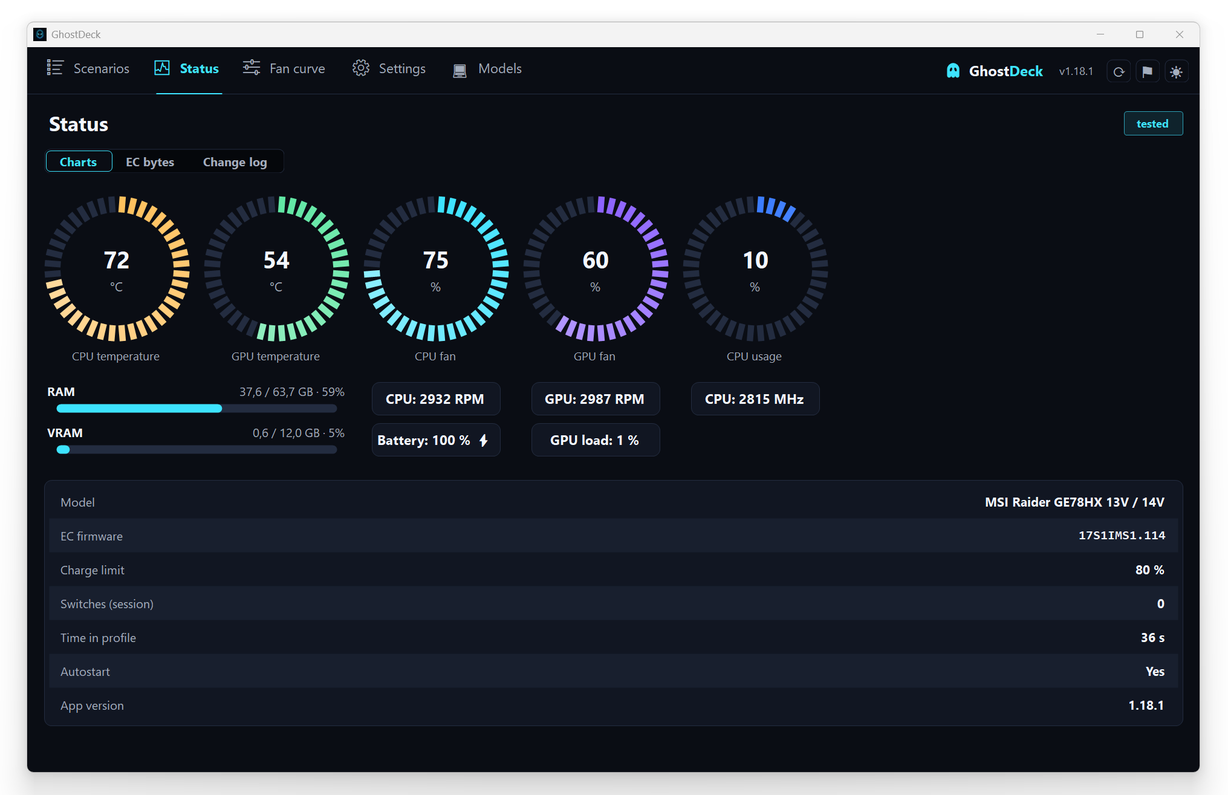
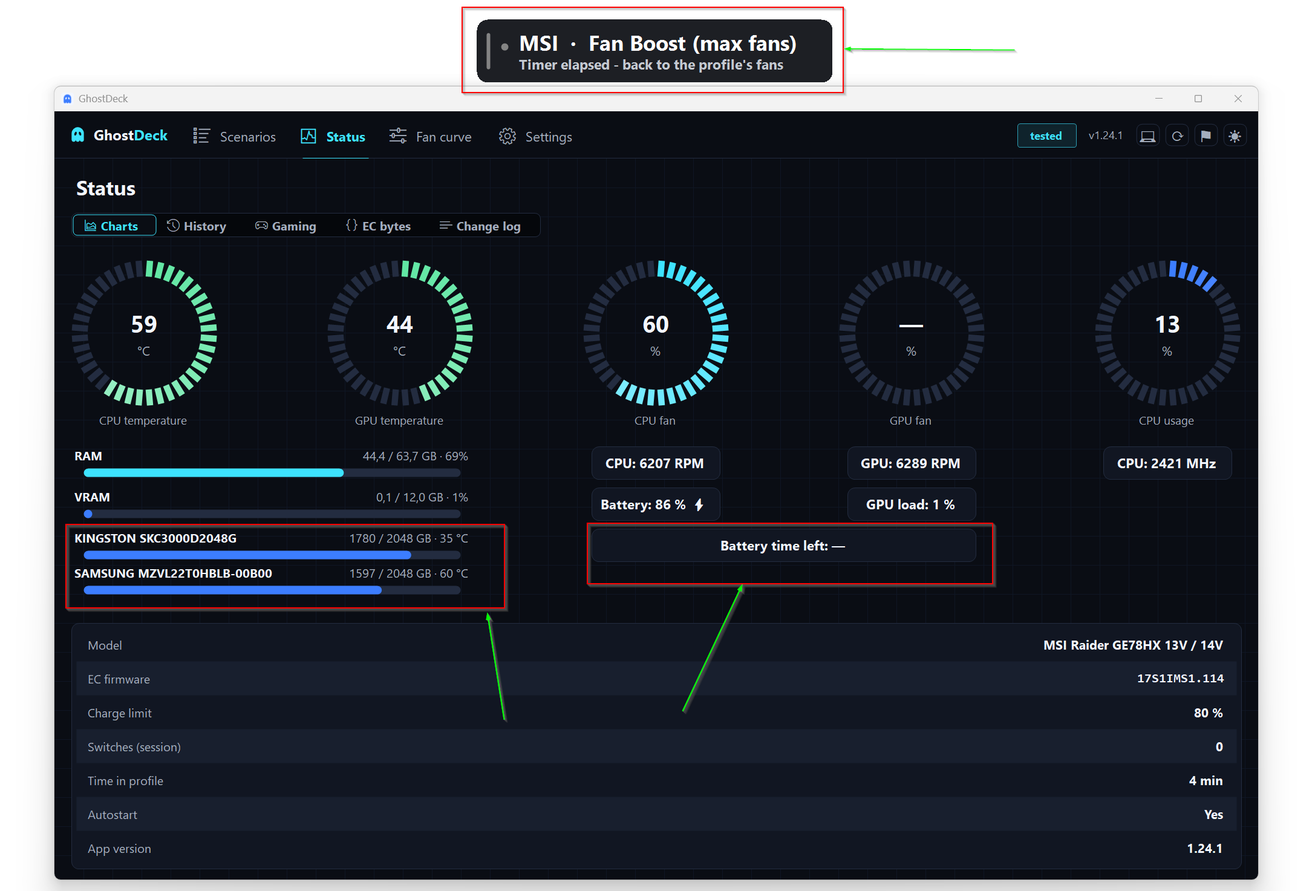
Release prep for v1.24.1: changelog, docs, screenshots
- CHANGELOG: date 1.24.1 (boost timer #51, telemetry mode #48, curve restore #49,
  battery health/time, storage panel, diagnostics, model promotions #45 #47 #50 #52-#54).
- README: features, comparison table, 15 tested models, gallery rows for Settings Power /
  System, refreshed Status shot.
- TECHNICAL: SS38 storage temperature ladder, SS39 telemetry-only mode, SS40 boost timer.

Changed region(s): [[0.0, 0.0, 0.9926, 0.9977], [0.8375, 0.3118, 0.8996, 0.4365], [0.7134, 0.3118, 0.7445, 0.4365]]

diff --git a/docs/TECHNICAL.md b/docs/TECHNICAL.md
@@ -934,6 +934,22 @@ The last deliberate profile also persists (`AppSettings.LastProfile`, written on
 are skipped when the AC/battery auto-switch is enabled (it owns the choice) and both respect
 `AutoWritable` (firmware guard).
 
+**Fan-curve restore (v1.24.x, discussion #49).** The EC cold-boots into its factory fan mode,
+so a custom curve never survives a restart; the per-profile preset only came back if something
+called `SetProfile` at startup (auto-switch on, or profile restore with a *different* boot
+profile). Now the app remembers the curve that is LIVE in the EC - `AppSettings.CurveActive` +
+the four point arrays + the preset name for the log ("" = a manual curve from the editor) -
+recorded by every apply path (`ApplyAssignedCurve`, tray preset quick-switch, editor
+enable/re-apply) and cleared by every "back to profile fans" path (tray "Fan: profile", editor
+revert, panic reset). `AppSettings.RestoreCurveOnResume` (Settings → Power, default OFF) makes
+`TrayContext.TryRestoreCurve` re-write those tables + `SetFanMode(advanced)` at startup and
+6 s after resume, always AFTER the profile logic (so a recipe cannot overwrite the fan byte),
+gated by `AutoWritable`, skipped in Silent (shared `0xD4` byte) and validated against
+`FanCurveSpec.Points`/`SingleFan`. The profile restore itself also lost its
+"already on that profile" short-circuit: a cold boot loses fan state even when the EC wakes in
+the same profile, so restore now always re-asserts the full recipe (identical bytes are
+harmless).
+
 ## 31. Single-curve boards (v1.23.1, issue #22)
 
 Some budget boards expose only ONE controllable fan curve: MSI Center shows a single slider
@@ -1148,3 +1164,138 @@ Known equivalences and acks encoded in the script:
 
 Stage 2 (not built): generating a ready PR instead of an issue - deliberately deferred until
 the report has earned trust, since these maps drive EC writes.
+
+## 37. One-click diagnostic package (v1.24.x, roadmap #30)
+
+Settings → System → Diagnostics → "Save diagnostic package…" builds one zip
+(`SettingsPage.SaveDiagnostics`, `System.IO.Compression`):
+
+- `report.txt` - app version, EC firmware, detected model + tier, Windows version;
+- `ec-dump.txt` - a fresh read-only `Ec.DumpAll()` in the wizard's hex format, or - when the
+  read fails - the `AppLifecycle.DescribeEcFailure` text plus the raw exception message (that
+  failure text is itself the diagnostic, see issue #48);
+- copies of `settings.json`, `changelog.json` and `errors.log` (only when present) from
+  `%AppData%\GhostDeck`.
+
+None of these files carry personal data (settings hold colors/hotkeys/toggles/window
+geometry). Half of issue triage used to be requesting exactly these pieces one by one.
+
+## 38. Battery health, battery-time estimate, SSD temperature (v1.24.x, roadmap #14/#15/#17)
+
+All three stay inside the project's "no kernel driver" rule - plain WMI, admin only:
+
+- **Battery health** (`Core/BatteryHealth.cs`, card in Settings → Power): `root\wmi`
+  `BatteryStaticData.DesignedCapacity`, `BatteryFullChargedCapacity.FullChargedCapacity`,
+  `BatteryCycleCount.CycleCount` (all mWh / count; 0 = firmware does not report it - common
+  for CycleCount). Wear % = 100 - full*100/design, clamped. Read once at card build; the
+  values change too slowly to poll.
+- **Estimated battery time** (`Perf.BatteryMinutesLeft`): `Win32_Battery.EstimatedRunTime`
+  (minutes), only queried while discharging; sentinel/garbage values (charging returns huge
+  numbers) are filtered by a 0 < m < 6000 window; cached 15 s. Shown in the tray tooltip
+  (`TrayContext.UpdateTrayText`, refreshed by the 3 s poll, defensively capped at the 127-char
+  NotifyIcon limit), on Status → Charts row 3, and as the `BatteryTime` overlay metric.
+- **Storage panel** (`Perf.Disks`, cached 5 s): one entry per physical disk, ordered by the
+  Windows disk number. Names and sizes come from `MSFT_PhysicalDisk`
+  (`root\microsoft\windows\storage`); used/total volume space is summed per disk via the
+  `Win32_DiskPartition` → `Win32_LogicalDiskToPartition` association in `root\cimv2` (keyed by
+  `DiskIndex`, which equals `MSFT_PhysicalDisk.DeviceId`). Status → Charts row 3 shows each
+  disk with a usage bar (amber ≥90 %) and its temperature (amber ≥70 °C); the overlay's
+  `SsdTemp` metric shows both disks ("37/50°", like the Fans metric) via `Perf.DiskTemps2()`.
+
+  **The temperature ladder.** No single Windows API covers every drive/driver combination, so
+  each disk's temperature is resolved by trying four sources in order and stopping at the
+  first that answers (a value outside 1-119 °C counts as "no answer" and shows as "—"):
+
+  1. **Bulk WMI**: one `SELECT DeviceId, Temperature FROM MSFT_StorageReliabilityCounter` for
+     all disks at once - the cheapest path, but the class often cannot be enumerated directly
+     and returns nothing (PowerShell's `Get-StorageReliabilityCounter` has the same
+     limitation: it requires piping a disk in).
+  2. **WMI association**: `ASSOCIATORS OF {MSFT_PhysicalDisk.ObjectId="…"} WHERE ResultClass =
+     MSFT_StorageReliabilityCounter`, per disk (the ObjectId's backslashes and quotes must be
+     escaped in the object path).
+  3. **Storage temperature property**: `DeviceIoControl(IOCTL_STORAGE_QUERY_PROPERTY)` on
+     `\.\PhysicalDriveN` with `StorageDeviceTemperatureProperty` (= 52). The response is a
+     `STORAGE_TEMPERATURE_DATA_DESCRIPTOR`: 24-byte header (`InfoCount` at offset 12), then
+     16-byte `STORAGE_TEMPERATURE_INFO` entries with the signed Celsius temperature at entry
+     offset 2; the hottest sensor wins. `desiredAccess = 0` suffices for property queries;
+     elevation (which the app always has) is required. Some drivers do not implement this
+     property at all - e.g. the Kingston SKC3000 answers nothing here while step 4 works.
+  4. **NVMe SMART/health log** - the route CrystalDiskInfo takes, supported by practically
+     every NVMe drive: the same IOCTL with a protocol-specific query
+     (`StorageAdapterProtocolSpecificProperty` = 49, then the device variant 50;
+     `STORAGE_PROTOCOL_SPECIFIC_DATA` = ten DWORDs starting at the query's
+     `AdditionalParameters`, offset 8: `ProtocolType = 3` Nvme, `DataType = 2` LogPage,
+     `ProtocolDataRequestValue = 0x02` health-info log, `ProtocolDataOffset = 40`,
+     `ProtocolDataLength = 512`). The payload starts at 8 + the returned `ProtocolDataOffset`;
+     **Composite Temperature is bytes 1-2, little-endian, in Kelvin** - converted as
+     `°C = K - 273`.
+
+  All constants and struct layouts above were verified against the Windows SDK headers
+  (winioctl.h / nvme.h 10.0.19041), and steps 3-4 are plain user-mode `DeviceIoControl` - the
+  "no kernel driver" rule holds. Real-world coverage of the ladder on a dual-SSD machine:
+  a Samsung MZVL2 answers at step 3, a Kingston SKC3000 only at step 4.
+
+`OverlayMetric` gained `SsdTemp = 65536` and `BatteryTime = 131072`; `OverlaySample` carries
+both values from `BuildOverlaySample` so a refused EC read still leaves OS-side metrics intact.
+
+## 39. Telemetry-only mode: MSI WMI sensor blocks (v1.24.x, issue #48)
+
+Some MSI firmware does not implement the EC method interface at all. Proven on a Delta 15
+A5EFK (`15CKEMS1.108`): the owner extracted the 16 MB BIOS, decompressed every volume and
+decoded the firmware `_WDG`, and the `MSI_ACPI` GUID `ABBC0F6E-8EA1-11D1-00A0-C90629100000`
+is **absent** - from the image and from the live DSDT. The class visible in Windows comes
+from a MOF installed by MSI's software with no firmware backing, which is why every method
+call (including a correctly formed `Get_Data` with a full 32-byte `Package_32`, elevated,
+on both mapper instances) returns `NotSupported`. That is a firmware fact, not a bug we can
+fix: no register map, buffer shape, instance or privilege level can create an interface the
+firmware does not have.
+
+What that firmware DOES back are vendor DATA blocks: `MSI_CPU`, `MSI_VGA`,
+`MSI_Master_Battery`, `MSI_Power`, `MSI_System`, `MSI_AP`. Each is exposed as instances
+`ACPI\PNP0C14\0_N` where N is the byte index inside the block, and the value sits in a
+property named after the class. **Byte index 1 is the live temperature in °C** - established
+by CPU-load correlation on that machine (56 → 90 °C under load, GPU steady 52-54 °C) and
+cross-checked here: the class GUIDs on the tested GE78HX match the reporter's `_WDG` decode
+exactly (`MSI_CPU` BD2A216F, `MSI_VGA` 1EC3EC7A, `MSI_AP` A1753D7C), so the blocks are a
+platform-wide MSI feature rather than one board's quirk.
+
+`Core/MsiTelemetry.cs` reads those two blocks (cached 2 s, same 1-119 °C sanity window as the
+EC path, elevation required - the blocks deny non-admin callers). `TrayContext` probes it
+once at startup when no device profile matched (`_telemetryOnly`), and `ReadHwOrTelemetry`
+supplies temperatures wherever the EC would: Status rings, overlay metrics, tray. Everything
+else stays zero, the tier badge reads `tier_telemetry`, and Status prints `telemetry_note`
+stating plainly that profiles / fan curves / charge limit are unavailable on this firmware.
+`MSIPS_FORCE_FIRMWARE=telemetry` simulates the state on a normal machine for UI work.
+
+**The two surfaces are mutually exclusive in practice.** Tested on the GE78HX (`17S1IMS1`,
+where the EC interface works perfectly): `Get-CimInstance root\wmi MSI_CPU` fails with the very
+same `NotSupported` / `0x8004100C` that the Delta 15 returns for `MSI_ACPI`, elevated. So MSI
+gives different platform generations different WMI surfaces - one board serves the EC method
+interface, another serves the sensor data blocks - and neither machine can verify the other's
+path. That is why the diagnostic package (§37) also carries `msi-wmi-blocks.txt`
+(`MsiTelemetry.Dump()`): every vendor block with its instances and values, or the exact error
+returned. When telemetry mode does not light up on a machine that should have it, that file
+separates "the blocks are silent here" from "we are reading them wrong" in one step.
+
+**Deliberately NOT done:** driving `MsIo64.sys` (MSI's port-I/O driver, present on those
+machines) or any WinRing0-class driver to reach the EC directly. Those sit on the known
+vulnerable-driver lists; "GhostDeck never loads a kernel driver" is the project's core safety
+property (§12) and is worth more than the feature. Open research track: whether `MSI_AP` or
+MSI's own service exposes any control without a driver - data blocks are read-oriented, so it
+may lead nowhere.
+
+## 40. Fan Boost auto-off timer (v1.24.x, discussion #51)
+
+Fan Boost is the control users forget to switch back, so it can now hand itself over to the
+profile after a while. `AppSettings.FanBoostSeconds` (0 = never, the default) is set in
+Settings → Power from presets 30 s / 1 / 2 / 3 / 5 / 10 / 15 min plus a "Custom…" entry that
+asks for any value up to 120 minutes; a custom value keeps its own label in the list so the
+current setting is always visible.
+
+`TrayContext.ArmBoostTimer` runs a single WinForms timer that is (re)armed on every ON and
+disposed on every OFF, so all entry points are covered by construction: tray menu, hotkey,
+Scenarios tile, CLI, and the panic reset. When it elapses it calls
+`SetCoolerBoostState(false, auto: true)` - the normal OFF path, which also re-asserts the fan
+byte that was active before the boost (see §17.7), so the fans return to the profile or the
+running curve rather than to plain auto. `auto` only changes the wording: the OSD and the
+change-log entry say the timer elapsed instead of a plain "off".

diff --git a/README.md b/README.md
@@ -8,7 +8,7 @@ Built because **MSI Center 2.0 removed the _Silent_ profile**. This app talks to
 
 > ⚠ **Hardware-specific.** Developed and tested on **MSI Raider GE78HX 13V** (board MS-17S1, i9-13950HX, EC firmware `17S1IMS1.114`), and confirmed by an owner on the **GE78 HX 14V** (`17S2IMS2`, same board). EC registers are model/firmware-specific - read [docs/TECHNICAL.md](docs/TECHNICAL.md) before trying it on another model. **Use at your own risk.**
 
-📋 **~135 MSI models recognised** - **13 models confirmed on real hardware** by their owners (GE78HX/Vector boards, Crosshair A16 HX, Crosshair 16 HX AI, Sword 16 HX, GE67 HX, Cyborg 15, both GF63 Thins, Titan 18 HX Dragon, Bravo 15 B7ED, Bravo 17, Katana GF66 11U, Pulse/Katana 17 B13V), the rest are experimental (opt-in). See the **[full supported-models list](docs/SUPPORTED_MODELS.md)**, or browse it live in the app's **Models** tab.
+📋 **~135 MSI models recognised** - **15 models confirmed on real hardware** by their owners (GE78HX/Vector boards, Crosshair A16 HX, Crosshair 16 HX AI, Sword 16 HX, GE67 HX, Cyborg 15, both GF63 Thins, Raider GE76 12UE, Raider A18 HX, Titan 18 HX Dragon, Bravo 15 B7ED, Bravo 17, Katana GF66 11U, Pulse/Katana 17 B13V), the rest are experimental (opt-in). See the **[full supported-models list](docs/SUPPORTED_MODELS.md)**, or browse it live in the app's **Models** tab.
 
 ## Features
 
@@ -20,20 +20,23 @@ Built because **MSI Center 2.0 removed the _Silent_ profile**. This app talks to
 - 🏁 **Game-session report** - when a game exits, GhostDeck pairs the FPS story with the EC story nobody else has: *"1 h 42 min · avg 87 FPS · 1% low 54 · CPU max 91 °C"* in a sleek **borderless popup** (frametime sparkline included) with one-click **save as PNG** and **data export (JSON/CSV)**, plus a summary card on Status → Gaming and a change-history entry
 - 🌍 **8 languages** - EN / PL / DE / FR / ES / 中文 / PT-BR / RU
 - 🎨 Custom color per profile
-- 📊 **Status** - live CPU/GPU temperature & fan rings, **fan RPM**, CPU usage & **approx. clock**, **GPU load % / VRAM**, RAM, **battery %**, plus a live **EC profile-byte matrix** (what each profile writes vs. the current values). Extra metrics are read **driver-free** (Windows PDH counters - no kernel driver, anti-cheat-safe)
+- 📊 **Status** - live CPU/GPU temperature & fan rings, **fan RPM**, CPU usage & **approx. clock**, **GPU load % / VRAM**, RAM, **battery %**, plus **NVMe/SSD temperature**, **estimated battery time left** and a live **EC profile-byte matrix** (what each profile writes vs. the current values). Extra metrics are read **driver-free** (Windows PDH/WMI - no kernel driver, anti-cheat-safe)
 - 🌀 **Fan curve editor** - drag a custom CPU/GPU curve and run it on **Balanced / Extreme / Super Battery** (MSI Center only allows one in Extreme); fully reversible. *Silent is the exception:* its power cap lives in the same EC byte the curve needs, so turning a curve on in Silent necessarily leaves Silent for Balanced - the app warns and switches for you. **Single-fan-curve boards** (where MSI Center shows one slider, e.g. Thin GF63 12VE) automatically get a single full-width curve editor, and the unused GPU tables are never written
 - 🗂 **Fan-curve presets** - save curves under a name, switch them from the editor or the tray menu, **assign a preset per profile** (auto-applied on every switch; Silent stays stock), and **export / import / share** presets as JSON - a Share button opens a prefilled GitHub Discussion with your model and curve
 - 📈 **History charts** - local trend of CPU/GPU temperature, fan duty, fan RPM and **game FPS** over the last 5-60 minutes (Status → History) with a crosshair value readout; memory-only, nothing is stored or sent anywhere - unless you hit **Export…** to save the window as **CSV/JSON** for your own analysis
 - ⌨ **Command line** - `GhostDeck.exe --profile Silent`, `--fanboost on`, `--curve "<preset>"`, `--panic`, `--status` (JSON) for Task Scheduler, Stream Deck and scripts - same safety gates as the UI
-- 🌪 **Fan Boost** - force both fans to full speed with one click, a tray entry or a global hotkey (default `Ctrl+Alt+F5`), independent of the active profile; shown as a compact toggle "brick" on the Scenarios tab *(equivalent of MSI's Cooler Boost)*
+- 🌪 **Fan Boost** - force both fans to full speed with one click, a tray entry or a global hotkey (default `Ctrl+Alt+F5`), independent of the active profile; shown as a compact toggle "brick" on the Scenarios tab *(equivalent of MSI's Cooler Boost)*, with an optional **auto-off timer** (30 s to 15 min, or your own value) so a quick cooling blast never turns into a forgotten hurricane
 - 📜 **Change-history log** - a running log of recent profile switches and EC writes (time, source: hotkey / tray / auto-AC / fan curve / external sync, the bytes written, and a readback), with a full-log window - handy for model-support reports
 - 🛡 **Firmware-change guard** - after a BIOS/EC update the app detects the changed firmware, blocks automatic writes and asks you to re-verify the model before it touches the EC again
 - 🌡 **Temperature alert** *(opt-in)* - an OSD toast + tray notification when the CPU or GPU stays above a chosen threshold (70-100 °C) for a chosen time (5-60 s), with a cool-down between alerts and an entry in the change history; the **OSD display time is adjustable** (1-15 s, alerts stay up at least 5 s)
 - 🆘 **Panic reset hotkey** (default `Ctrl+Alt+F10`) - one press returns the machine to a safe stock state: Fan Boost off, Balanced profile, fans back on the automatic curve
 - 💾 **Settings backup** - export every preference (colors, hotkeys, rules, overlay, alerts) to a JSON file and import it after a reinstall or on another machine; machine-specific state (firmware guard, window position) stays local
+- 🌡 **Temperatures even on unsupported firmware** - a few MSI models ship firmware without MSI's EC control interface (GhostDeck used to be dead there); the app now falls back to MSI's WMI sensor blocks and still shows live **CPU/GPU temperature** in Status and the overlay, while saying plainly that profiles, fan curves and the charge limit are unavailable on that machine
+- 🩺 **One-click diagnostic package** (Settings → System) - a single zip with a read-only EC dump, settings, change history and error log, ready to attach to a bug report; no personal data involved
 - 🔌 Optional **auto-switch** on AC / battery (off by default, so it won't fight MSI software)
+- ♻ **Startup / wake restore** *(opt-in, Settings → Power)* - the EC resets to factory state on every cold boot (and sometimes wakes in Super Battery on its own); GhostDeck can re-assert both your **profile** and your **custom fan curve** a few seconds after startup and resume, so the machine always comes back exactly as you left it
 - 🖥 **Refresh-rate auto-switch** *(opt-in)* - drop the panel to 60 Hz on battery and jump back to 144/240 Hz on AC, automatically; pickers list only the modes your panel reports. Pure Windows display API, so it works on **every** laptop - even unrecognised models
-- 🔋 **Battery charge limit** (60 / 80 / 100 %)
+- 🔋 **Battery charge limit** (60 / 80 / 100 %) plus a **battery health panel** (design vs full-charge capacity, wear %, charge cycles) in Settings → Power
 - 🚀 **Start with Windows** (elevated scheduled task - no UAC nag at logon)
 - 🔄 Syncs the UI if the profile is changed externally (e.g. by MSI Center)
 - ⬇ **In-app updates** - a daily update check (can be disabled) with a tray notification, plus **one-click install from the Updates tab**: it downloads the new release, shows a progress bar and restarts itself on the new version (the previous `.exe` is kept as a `.bak` and cleaned up on next start); falls back to the download page if the download fails. The tab also lists the **last 20 releases with download counts and full release notes readable inline** (click an entry to expand), and recovers from a lost connection on its own (retry button + automatic re-check)
@@ -48,7 +51,7 @@ GhostDeck is a small, focused tool - it deliberately does one thing (power/fan p
 |---|:---:|:---:|
 | **Silent profile** | ❌ *(removed in 2.0)* | ✅ |
 | Balanced / Extreme / Super Battery modes | ✅ | ✅ |
-| Full fan speed (Fan Boost / MSI Cooler Boost) | ✅ | ✅ |
+| Full fan speed (Fan Boost / MSI Cooler Boost) | ✅ | ✅ *(+ auto-off timer)* |
 | Battery charge limit | ✅ *(60/80/100)* | ✅ *(60/80/100)* |
 | Custom fan curve | Limited¹ | ✅ *(Balanced / Extreme / Super Battery)*¹ |
 | Global **rebindable** hotkeys | Limited² | ✅ |
@@ -66,7 +69,8 @@ GhostDeck is a small, focused tool - it deliberately does one thing (power/fan p
 | Fan-curve presets + per-profile auto-apply | ❌ | ✅ *(share/import as JSON)* |
 | Local history charts (last 60 min) | ❌ | ✅ *(temps + fans, memory-only)* |
 | Command-line interface (automation) | ❌ | ✅ |
-| Hardware monitoring | ✅ | Limited³ |
+| Hardware monitoring | ✅ | Limited³ *(temps, fans, disks, battery health)* |
+| One-click diagnostic package for bug reports | ❌ | ✅ |
 | Works with any / no MSI Center version | ❌ | ✅ |
 | Installed size | ~950 MB⁴ + background services | ~155 MB⁵ *(single portable .exe, no services)* |
 | RGB / keyboard / other MSI-Center features | ✅ | ❌ |
@@ -89,7 +93,9 @@ GhostDeck is a small, focused tool - it deliberately does one thing (power/fan p
 | ![Tray menu](docs/images/tray-menu.png) | ![Scenarios](docs/images/scenarios.png) |
 | **Tray menu** - switch profile, Status, Language, Settings | **Scenarios** - large profile tiles + charge limit and AC/battery auto-switch |
 | ![Status](docs/images/status.png) | ![Settings](docs/images/settings.png) |
-| **Status** - temperature/fan rings, fan RPM, CPU usage and RAM, tier badge | **Settings** - Start dashboard: icon sub-tabs, live state on every group tile, quick switches |
+| **Status** - temperature/fan rings, fan RPM, per-disk S.M.A.R.T. temperatures, battery time, RAM | **Settings** - Start dashboard: icon sub-tabs, live state on every group tile, quick switches |
+| ![Settings Power](docs/images/settings_power.png) | ![Settings System](docs/images/settings_system.png) |
+| **Settings → Power** - charge limit, battery health, Fan Boost auto-off timer, startup/wake restore | **Settings → System** - one-click diagnostic package, backup, autostart and updates |
 | ![Report my model](docs/images/report_my_model.png) | ![Updates](docs/images/updates.png) |
 | **Report my model** - guided in-app EC capture → pre-filled GitHub issue | **Updates** - one-click install, 20 releases with download counts and inline notes |
 | ![Fan curve](docs/images/fan_curve.png) | ![Status EC bytes](docs/images/status_ec.png) |

diff --git a/CHANGELOG.md b/CHANGELOG.md
@@ -3,6 +3,70 @@
 All notable changes to this project are documented here.
 Format loosely based on [Keep a Changelog](https://keepachangelog.com/).
 
+## [1.24.1] - 2026-07-29
+### Added
+- **Fan Boost can switch itself off** ([#51](../../discussions/51), thanks @cesarcamps) -
+  Settings → Power → "Turn Fan Boost off automatically after": 30 s, 1, 2, 3, 5, 10 or 15
+  minutes, or any custom value up to two hours (off by default). The countdown starts whenever
+  Fan Boost goes on - tray, hotkey, the Scenarios tile or the command line - and when it
+  elapses the fans go straight back to whatever the active profile or curve was doing, with an
+  on-screen note and a change-log entry. Turning Boost off by hand cancels the timer.
+- **Temperature readings on laptops without MSI's EC interface** ([#48](../../issues/48),
+  thanks @SavAlexander) - a few MSI models ship firmware that does not implement the EC
+  control interface at all (proven on a Delta 15 A5EFK: the owner extracted the BIOS and the
+  interface GUID is absent from the firmware tables). GhostDeck used to be completely dead on
+  such machines. It now falls back to MSI's own WMI sensor blocks and shows **live CPU/GPU
+  temperature** on the Status tab and in the overlay, with a plain explanation that profiles,
+  fan curves and the charge limit are unavailable on that firmware. Read-only, no driver.
+- **Custom fan curves survive a reboot** ([#49](../../discussions/49), thanks @inokra) - the
+  EC resets to its factory fan mode on every cold boot, so a custom curve always needed
+  re-enabling by hand. A new opt-in switch (Settings → Power → "Restore fan curve after wake /
+  at startup") makes GhostDeck remember the curve that was active - a preset or a manual one
+  from the editor - and re-apply it a few seconds after startup and resume, with a change-log
+  entry each time. Profile restore also re-asserts its state now even when the EC happens to
+  boot into the same profile.
+- **Status sub-tabs got icons** - Charts / History / Gaming / EC bytes / Change log now carry
+  the same icon style as the Settings sub-tabs.
+- **One-click diagnostic package** (Settings → System → Diagnostics) - a single zip with a
+  read-only EC dump (or the exact error it produced), settings, the change history and
+  errors.log; everything a bug report keeps asking for, attached in one file. No personal data
+  lives in any of these files.
+- **Battery health panel** (Settings → Power) - design capacity vs full-charge capacity,
+  wear % and charge cycles, read straight from Windows' battery WMI classes; the natural
+  neighbour of the charge limit.
+- **Estimated battery time** - while discharging, the tray tooltip shows Windows' own
+  "~2 h 40 min left" estimate, a new box on Status → Charts shows it too, and a new optional
+  overlay metric puts it in the HUD during gaming.
+- **Storage panel with per-disk S.M.A.R.T. temperature** - Status → Charts lists every
+  physical disk with its name, used/total space (with a usage bar) and live S.M.A.R.T. temperature (no kernel driver; the hottest
+  disk also available as an optional overlay metric); NVMe drives can throttle during long
+  sessions.
+- **Every Settings card now has an icon** and the Backup card moved to the left column of
+  System.
+- **Raider A18 HX A7VIG (`182KIMS1`) promoted to Tested** ([#50](../../issues/50), thanks
+  @afk789) - per-scenario capture matches the shipped map, all three hardware checks passed,
+  and fan-RPM readout is enabled. That's **15 tested models**.
+- **GP66 Leopard 11UG / GE66 Raider (`1543EMS1`): fan curve verified and RPM enabled**
+  ([#52](../../issues/52), [#53](../../issues/53), thanks @krystian-pytlik) - the owner's test
+  curve was found byte-for-byte at `0x72` / `0x8A`, so the editor's "unverified" tag is gone.
+- **Raider GE76 12UE (`17K4EMS1`) promoted to Tested, fan curve verified**
+  ([#45](../../issues/45), [#47](../../issues/47), thanks @moragab1993) - the per-scenario
+  capture matches the shipped register map, the owner's test curve was found byte-for-byte at
+  `0x72` / `0x8A`, and fan-RPM readout is enabled (`0xC9` / `0xCB`).
+
+### Fixed
+- **Super Battery on the A18 HX boards no longer writes a register MSI Center leaves alone**
+  ([#50](../../issues/50), [#54](../../issues/54)) - two independent captures (Raider A18 HX
+  A7VIG and Vector A18 HX A9WHG) show `0xEB` staying at 00 in Super Battery on those AMD
+  boards, so GhostDeck now mirrors MSI Center exactly and skips that write.
+- **Buttons react to the mouse again** - outline-style buttons (Details in the release list,
+  Try again, backup buttons and others) had no visible hover state on the dark theme; they now
+  highlight under the cursor.
+- **A clearer message when the EC cannot be read** ([#48](../../issues/48)) - the capture
+  wizard used to end with a bare "Details: Unsupported". It now says what actually happened
+  (the firmware refused the request) and points to reporting the model, with separate wording
+  for access-denied and for machines without MSI's WMI interface at all.
+
 ## [1.24.0] - 2026-07-28
 ### Added
 - **Crosshair 16 HX AI D2XW (`15P4EMS1`) promoted to Tested, fan curve verified**
